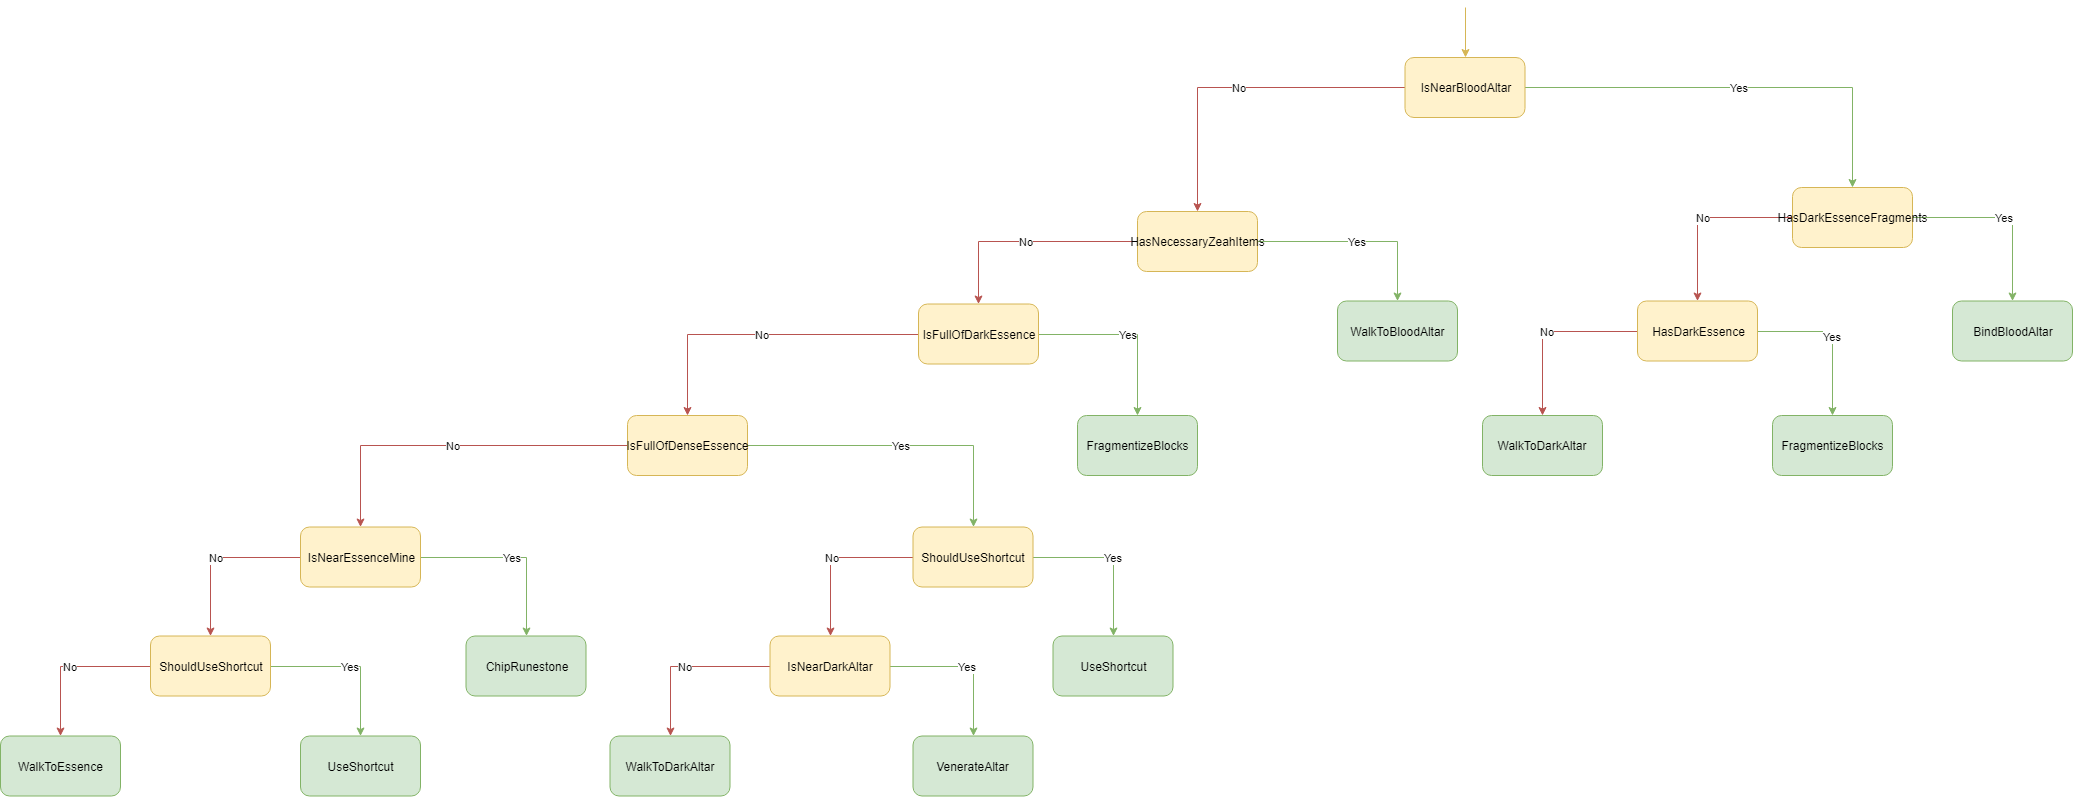
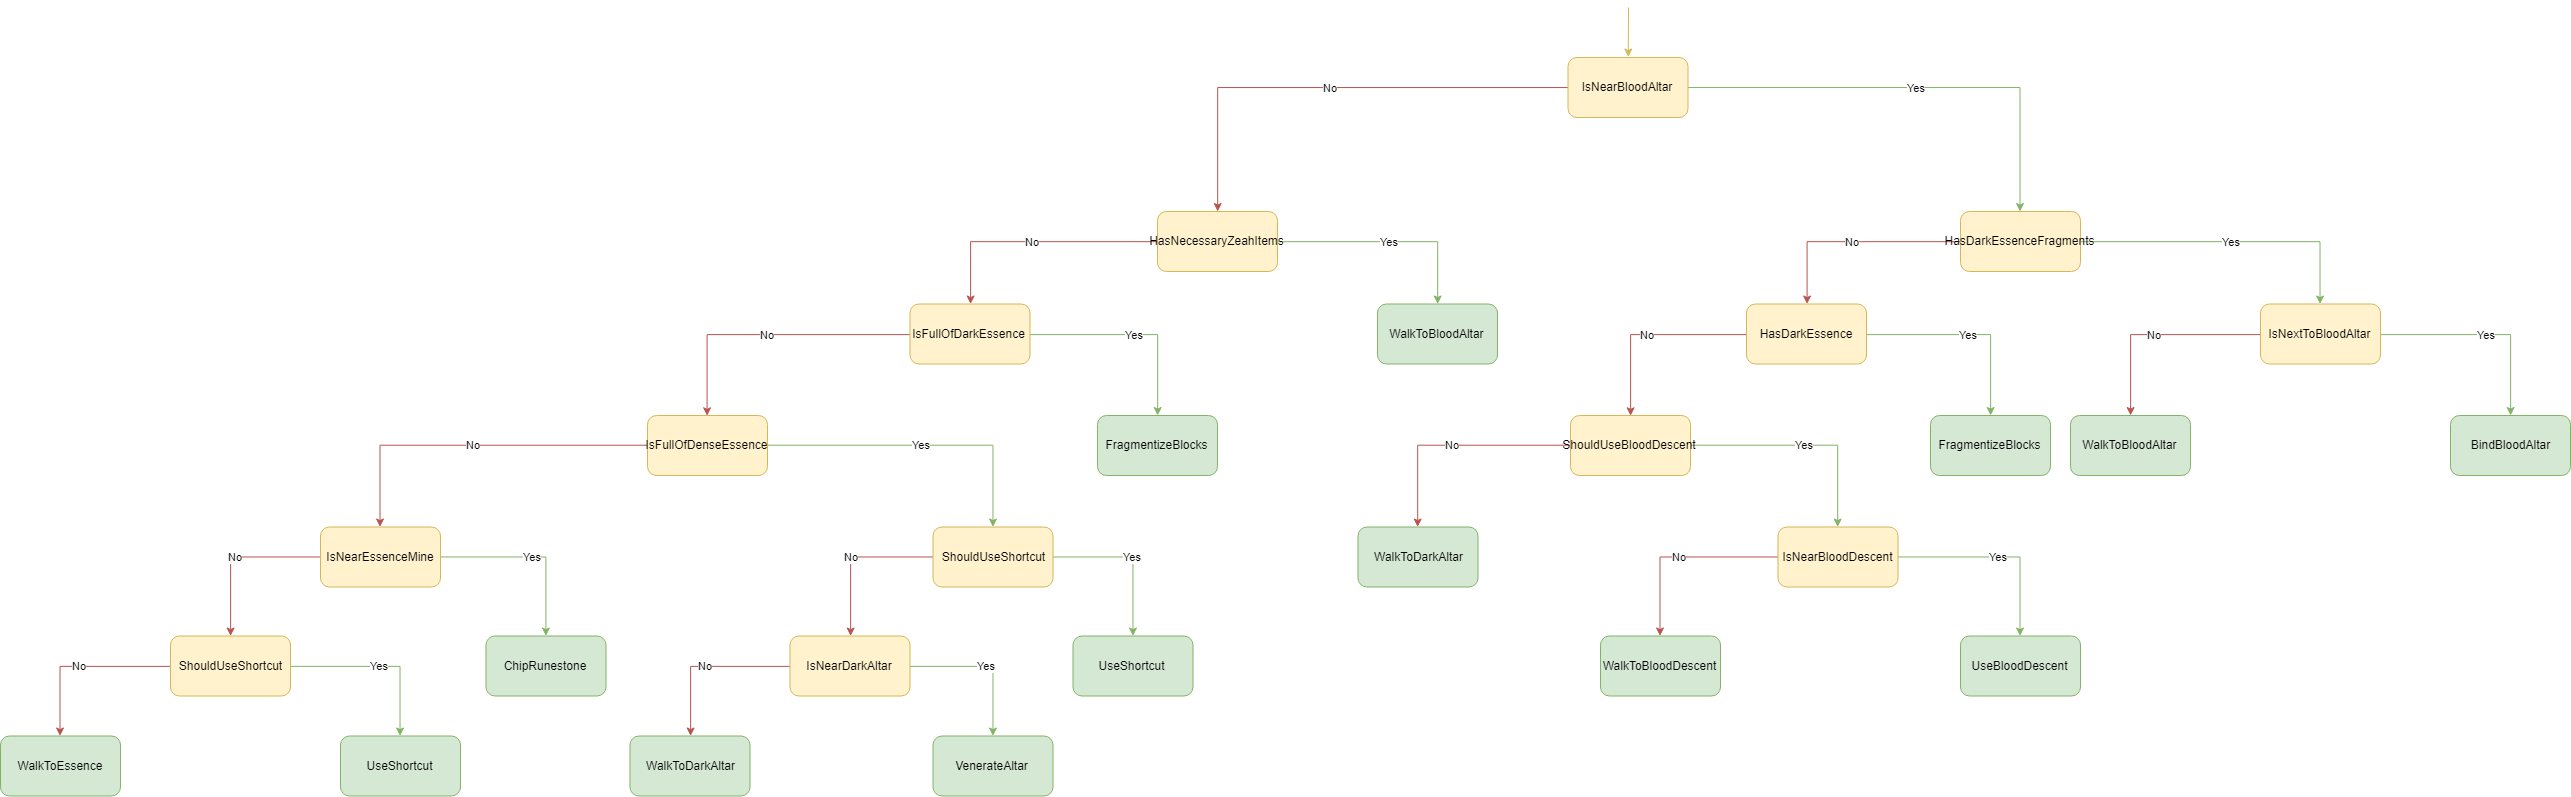
Adding usage of return shortcut from blood altar

diff --git a/src/methods/ArceuusBlood.java b/src/methods/ArceuusBlood.java
@@ -14,7 +14,7 @@ public class ArceuusBlood extends CraftMethod {
         handler.addNotedPosition("high agility inner", new Position(1761, 3871));
         handler.addNotedPosition("low agility outer", new Position(1774, 3849));
         handler.addNotedPosition("low agility inner", new Position(1769, 3849));
-        handler.addNotedPosition("top agility outer", new Position(1742, 3854));
+        handler.addNotedPosition("blood descent outer", new Position(1742, 3854));
         handler.addNotedPosition("center essence", new Position(1765, 3852));
         handler.addNotedPosition("blood altar", RuneTypes.BLOOD.getAltarPosition());
         final TreeTask head = new IsNearBloodAltar(handler);
@@ -35,9 +35,15 @@ public class ArceuusBlood extends CraftMethod {
         second.setRight(new WalkToBloodAltar(handler));
         second = head.setRight(new HasDarkEssenceFragments());
         third = second.setLeft(new HasDarkEssence());
-        third.setLeft(new WalkToDarkAltar(handler));
+        fourth = third.setLeft(new ShouldUseBloodDescent());
+        fourth.setLeft(new WalkToDarkAltar(handler));
+        fifth = fourth.setRight(new IsNearBloodDescent(handler));
+        fifth.setLeft(new WalkToBloodDescent(handler));
+        fifth.setRight(new UseBloodDescent(handler));
         third.setRight(new FragmentizeBlocks());
-        second.setRight(new BindBloodAltar());
+        third = second.setRight(new IsNextToBloodAltar(handler));
+        third.setLeft(new WalkToBloodAltar(handler));
+        third.setRight(new BindBloodAltar());
         setHead(head);
     }
 }

diff --git a/src/tasks/UseBloodDescent.java b/src/tasks/UseBloodDescent.java
@@ -1,0 +1,39 @@
+package tasks;
+
+import org.rspeer.runetek.adapter.scene.SceneObject;
+import org.rspeer.runetek.api.commons.Time;
+import org.rspeer.runetek.api.movement.position.Position;
+import org.rspeer.runetek.api.scene.Players;
+import org.rspeer.runetek.api.scene.SceneObjects;
+import task_structure.TreeScript;
+import task_structure.TreeTask;
+
+public class UseBloodDescent extends TreeTask {
+    private final TreeScript handler;
+
+    public UseBloodDescent(final TreeScript handler) {
+        super(true);
+        this.handler = handler;
+    }
+
+    @Override
+    public boolean validate() {
+        return false;
+    }
+
+    @Override
+    public int execute() {
+        final Position bloodDescentPosition = handler.getNotedPosition("blood descent outer");
+        final SceneObject shortcut = SceneObjects.getNearest(sceneObject -> sceneObject.getName().equals("Rocks") && sceneObject.containsAction("Climb") && sceneObject.distance(bloodDescentPosition) <= 2);
+        if (shortcut != null) {
+            shortcut.interact("Climb");
+            Time.sleepUntil(() -> !Players.getLocal().isAnimating() && bloodDescentPosition.distance() > 1, 4000);
+        }
+        return super.execute();
+    }
+
+    @Override
+    public String toString() {
+        return "Using blood descent shortcut";
+    }
+}

diff --git a/src/tasks/ShouldUseShortcut.java b/src/tasks/ShouldUseShortcut.java
@@ -3,6 +3,7 @@ package tasks;
 import org.rspeer.runetek.api.component.tab.Skill;
 import org.rspeer.runetek.api.component.tab.Skills;
 import org.rspeer.runetek.api.movement.position.Position;
+import org.rspeer.ui.Log;
 import task_structure.TreeScript;
 import task_structure.TreeTask;
 import utils.Pathing;
@@ -26,6 +27,6 @@ public class ShouldUseShortcut extends TreeTask {
         if (destination == null) return false;
         final int distanceToDestination = Pathing.getTrueDistance(destination);
         if (!isHeadingToEssence) return distanceToDestination >= 150 && agilityLevel >= LOW_AGILITY;
-        return (agilityLevel >= HIGH_AGILITY && distanceToDestination < 160) || (agilityLevel >= LOW_AGILITY && distanceToDestination < 115);
+        return ((agilityLevel >= HIGH_AGILITY && distanceToDestination < 195) || (agilityLevel >= LOW_AGILITY && distanceToDestination < 115)) && distanceToDestination > 80;
     }
 }

diff --git a/src/tasks/IsNextToBloodAltar.java b/src/tasks/IsNextToBloodAltar.java
@@ -3,12 +3,11 @@ package tasks;
 import org.rspeer.runetek.api.movement.position.Position;
 import task_structure.TreeScript;
 import task_structure.TreeTask;
-import utils.Pathing;
 
-public class IsNearBloodAltar extends TreeTask {
+public class IsNextToBloodAltar extends TreeTask {
     private final TreeScript handler;
 
-    public IsNearBloodAltar(final TreeScript handler) {
+    public IsNextToBloodAltar(final TreeScript handler) {
         super(false);
         this.handler = handler;
     }
@@ -16,6 +15,6 @@ public class IsNearBloodAltar extends TreeTask {
     @Override
     public boolean validate() {
         final Position bloodAltarPosition = handler.getNotedPosition("blood altar");
-        return bloodAltarPosition != null && Pathing.getTrueDistance(bloodAltarPosition) < 100;
+        return bloodAltarPosition != null && bloodAltarPosition.distance() < 10;
     }
 }

diff --git a/src/tasks/IsNearBloodDescent.java b/src/tasks/IsNearBloodDescent.java
@@ -1,0 +1,21 @@
+package tasks;
+
+import org.rspeer.runetek.api.movement.position.Position;
+import org.rspeer.ui.Log;
+import task_structure.TreeScript;
+import task_structure.TreeTask;
+
+public class IsNearBloodDescent extends TreeTask {
+    private final TreeScript handler;
+
+    public IsNearBloodDescent(final TreeScript handler) {
+        super(false);
+        this.handler = handler;
+    }
+
+    @Override
+    public boolean validate() {
+        final Position bloodDescentPosition = handler.getNotedPosition("blood descent outer");
+        return bloodDescentPosition != null && bloodDescentPosition.distance() < 10;
+    }
+}

diff --git a/src/tasks/BindBloodAltar.java b/src/tasks/BindBloodAltar.java
@@ -22,7 +22,7 @@ public class BindBloodAltar extends TreeTask {
         final SceneObject altar = SceneObjects.getNearest("Blood Altar");
         if (altar == null) return super.execute();
         altar.interact("Bind");
-        Time.sleepUntil(() -> !Inventory.contains("Dark essence block") && !Players.getLocal().isAnimating(), 5000);
+        Time.sleepUntil(() -> !Inventory.contains("Dark essence fragments") && !Players.getLocal().isAnimating(), 5000);
         Time.sleep(750, 800);
         return super.execute();
     }

diff --git a/src/tasks/WalkToSpecified.java b/src/tasks/WalkToSpecified.java
@@ -31,7 +31,7 @@ public class WalkToSpecified extends TreeTask {
             runThreshold = Random.high(15, 30);
         }
         Movement.walkTo(destination);
-        Time.sleepUntil(() -> !Movement.isDestinationSet() || Movement.getDestinationDistance() < MAXIMUM_DESTINATION_DISTANCE, Random.high(6000, 7000));
+        Time.sleepUntil(() -> !Movement.isDestinationSet() || Movement.getDestinationDistance() < MAXIMUM_DESTINATION_DISTANCE, Random.high(5000, 6000));
         return super.execute();
     }
 }

diff --git a/src/tasks/ShouldUseBloodDescent.java b/src/tasks/ShouldUseBloodDescent.java
@@ -1,0 +1,18 @@
+package tasks;
+
+import org.rspeer.runetek.api.component.tab.Skill;
+import org.rspeer.runetek.api.component.tab.Skills;
+import task_structure.TreeScript;
+import task_structure.TreeTask;
+
+public class ShouldUseBloodDescent extends TreeTask {
+
+    public ShouldUseBloodDescent() {
+        super(false);
+    }
+
+    @Override
+    public boolean validate() {
+        return Skills.getLevel(Skill.AGILITY) >= 73;
+    }
+}

diff --git a/src/tasks/WalkToBloodDescent.java b/src/tasks/WalkToBloodDescent.java
@@ -1,0 +1,15 @@
+package tasks;
+
+import task_structure.TreeScript;
+
+public class WalkToBloodDescent extends WalkToSpecified {
+
+    public WalkToBloodDescent(final TreeScript handler) {
+        super(handler.getNotedPosition("blood descent outer"));
+    }
+
+    @Override
+    public String toString() {
+        return "Walking to blood descent shortcut";
+    }
+}
